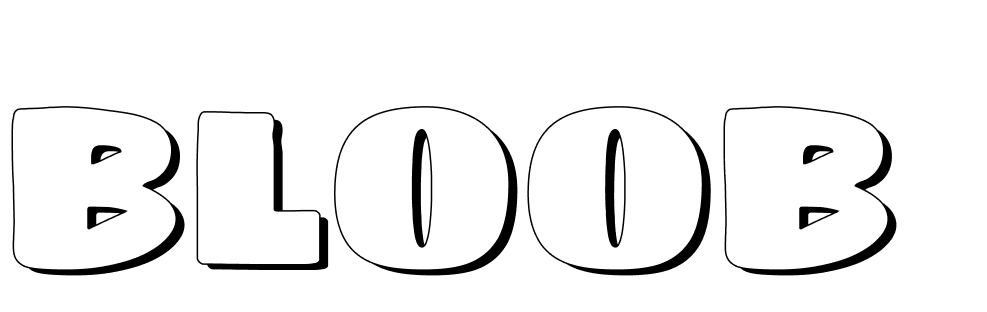
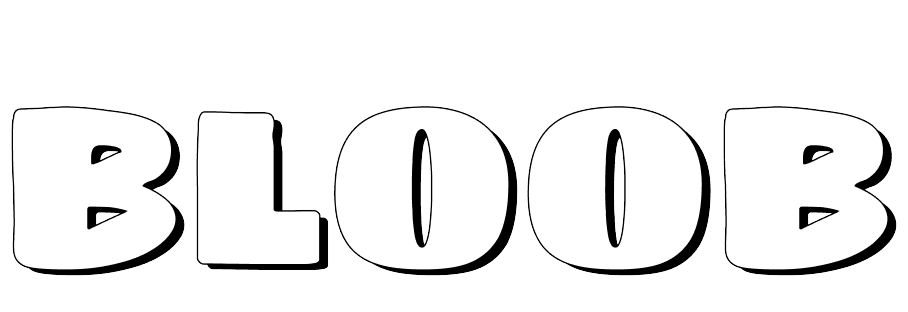
completed desktop view

diff --git a/src/pages/landing/index.jsx b/src/pages/landing/index.jsx
@@ -18,7 +18,7 @@ const Landing = () => {
             <Nav />
         </div>
         <div id='home' className="flex justify-center items-center lg:-mt-[60px]">
-            <img src={text} alt="" />
+            <img src={text} alt="" className='w-[90%] lg:w-auto' />
         </div>
         <div className="flex justify-center relative items-center -mt-[100px] lg:-mt-[290px]">
             <img src={shadow} alt="" className='hidden lg:block lg:w-auto' />
@@ -47,12 +47,15 @@ const Landing = () => {
                 <img src={token} className="w-full" alt="" />
             </div>
             <div className="w-full lg:w-[60%] relative">
-                <div className="absolute bottom-[15%] px-[5px] lg:px-[30px] flex justify-center items-center gap-1 lg:gap-2 py-2 border-[2px] border-black border-b-[5px] rounded-[8px] lg:text-[18px] lg:right-[20%] bg-white"><p>Ca : dgdhjksqajuw2839w8uygww</p> <img src={copy} alt="" className='cursor-pointer' onClick={() => {
-                    navigator.clipboard.writeText(
-                        "dgdhjksqajuw2839w8uygww"
-                    );
-                }} /></div>
-                <img src={section} alt="" className="w-full" /></div>
+                <div className="absolute w-full lg:w-auto bottom-[15%] left-1/2 transform -translate-x-1/2 px-[5px] lg:px-[30px] flex justify-center items-center gap-1 lg:gap-2 py-2 border-[2px] border-black border-b-[5px] rounded-[8px] text-[14px] lg:text-[18px] bg-white">
+                    <p className='whitespace-nowrap'>Ca : dgdhjksqajuw2839w8uygww</p> <img src={copy} alt="" className='cursor-pointer' onClick={() => {
+                        navigator.clipboard.writeText(
+                            "dgdhjksqajuw2839w8uygww"
+                        );
+                    }} />
+                </div>
+                <img src={section} alt="" className="w-full" />
+            </div>
         </div>
 
         <div className="flex justify-center items-center mt-[70px]">
@@ -61,9 +64,9 @@ const Landing = () => {
                     <h1 className='text-[40px] text-center lg:text-[68px] text-with-border2'>Join the community </h1>
                     <div className="flex flex-col lg:flex-row justify-center items-center gap-[20px] pb-[20px] lg:pb-0 lg:gap-[50px]">
                         <button className="border-[2px] border-black rounded-[8px] py-2 px-[50px] text-black bg-primary text-[24px] border-b-[5px]">Buy Now</button>
-                       <div className="flex justify-center items-center gap-3">
-                        <img src={dex} alt="" /><img src={xfoot} alt="" />
-                       </div>
+                        <div className="flex justify-center items-center gap-3">
+                            <img src={dex} alt="" /><img src={xfoot} alt="" />
+                        </div>
                     </div>
                 </div>
                 <div className="lg:w-[33%]"><img src={foot} className="w-full" alt="" /></div>
